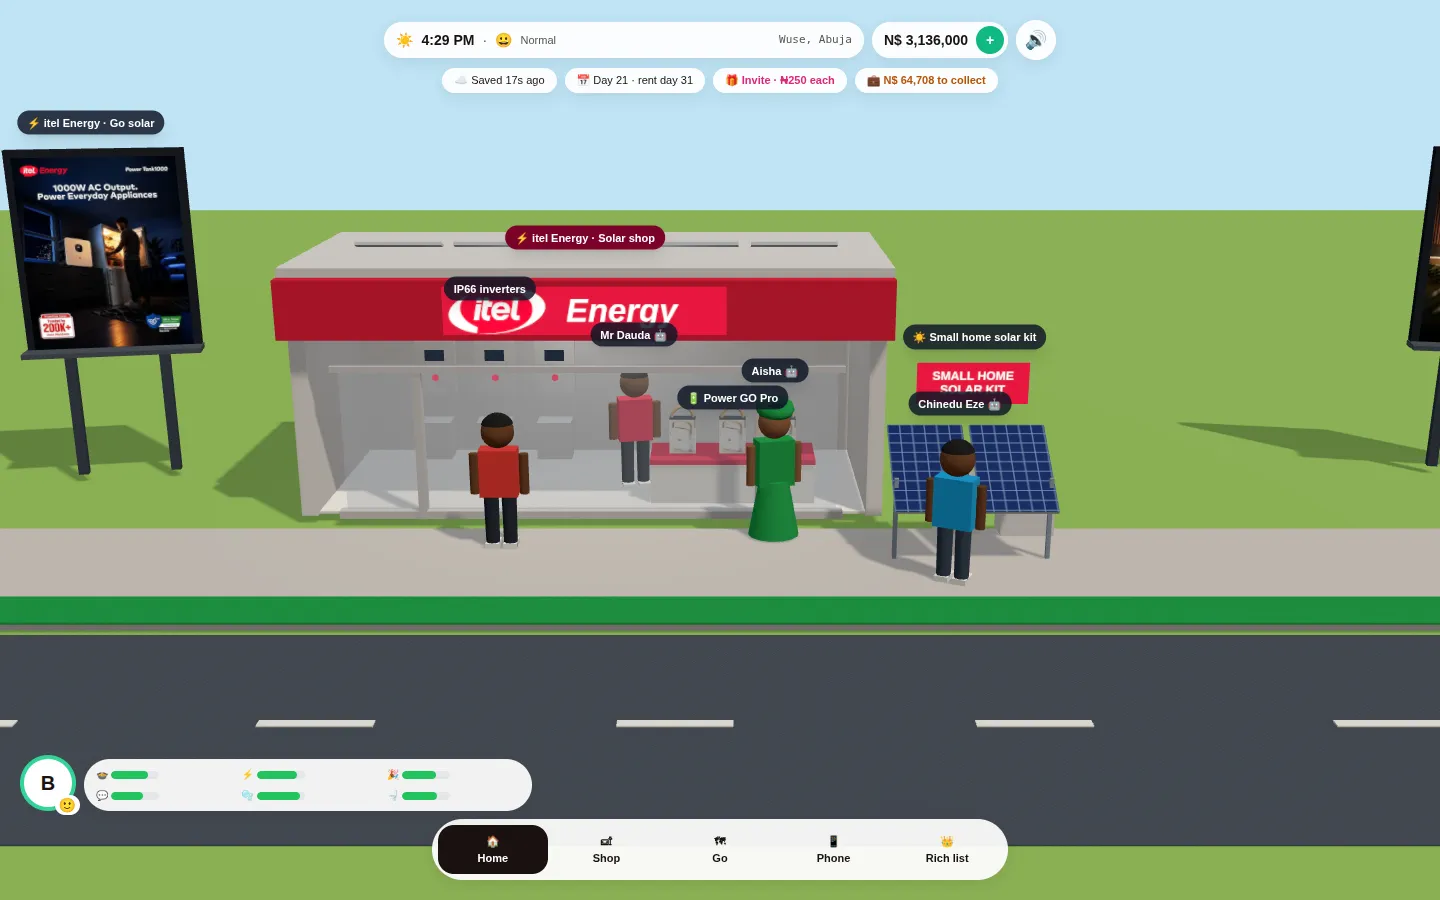
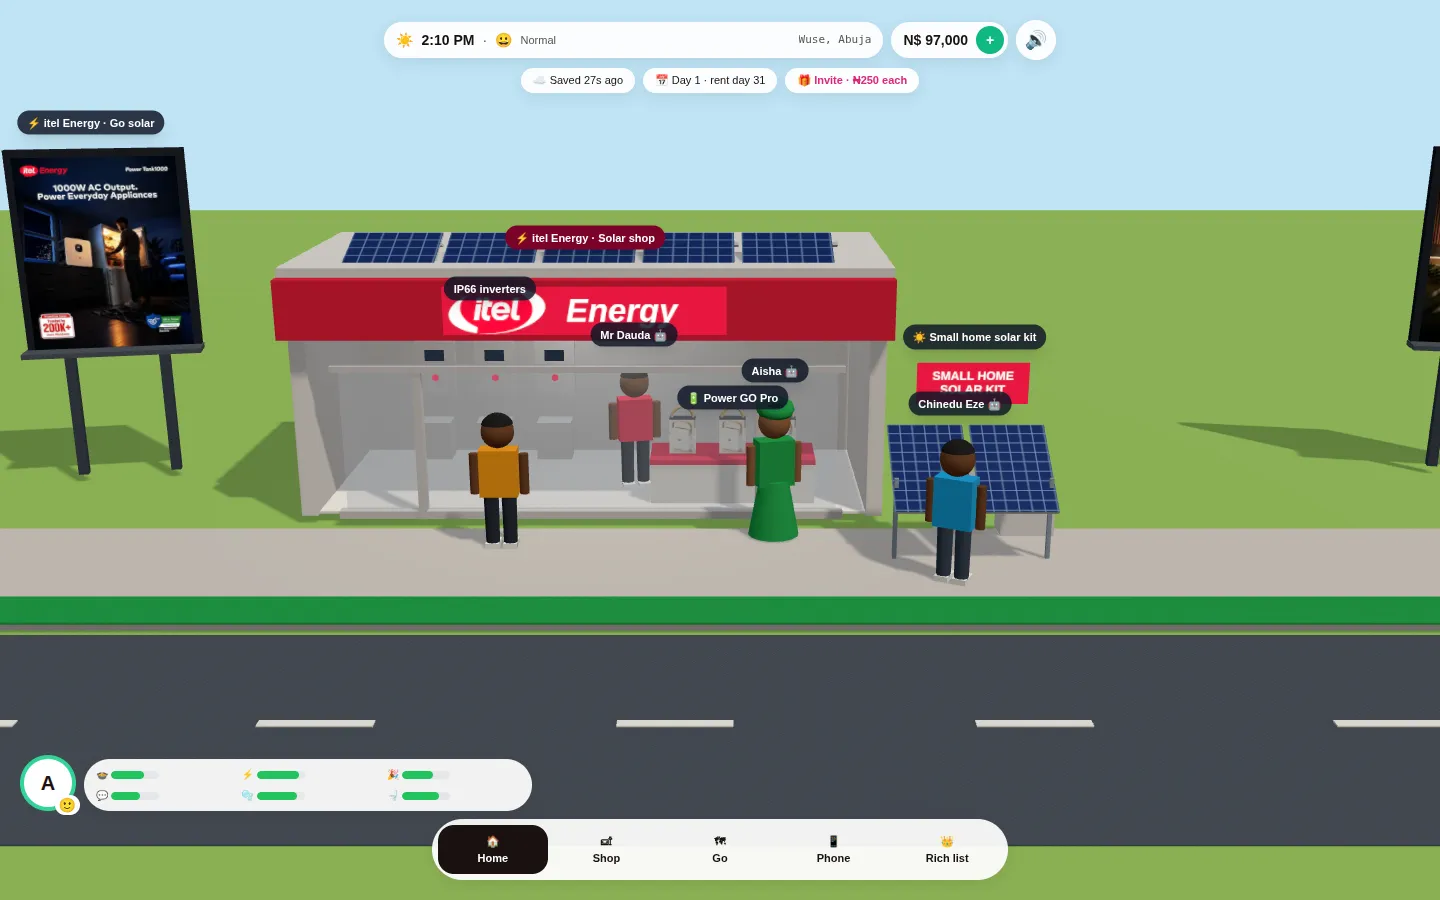
Notes Life pages: new in-game screenshots, pool and VIP cards, Candellux section (#140)
* Notes Life pages: city picker, arrival, pool and VIP cards, Candellux section, updated partner text

Claude-Session: https://claude.ai/code/session_014YUCojVUYbQrveaVgUJMCC

* Notes Life pages: new in-game screenshots (city picker, arrival, new Candellux, pool, VIP bar, solar roofs, billboards, jobs)

Claude-Session: https://claude.ai/code/session_014YUCojVUYbQrveaVgUJMCC

---------

Changed region(s): [[0.3125, 0.0, 0.6875, 0.1244], [0.2188, 0.2489, 0.5938, 0.3111], [0.3125, 0.4978, 0.375, 0.56]]

diff --git a/app/life/page.tsx b/app/life/page.tsx
@@ -15,13 +15,16 @@ const APP = "https://app.notesapp.name.ng";
 const PLAY = "https://www.notesapp.name.ng/life/play";
 // Screenshots from the game itself (public/images/life/shots/), phone size.
 const shots: { src: string; title: string; text: string }[] = [
-  { src: "/images/life/shots/welcome.webp", title: "Start in Abuja", text: "Abuja is open: a room in Wuse and N$ 100,000 to start. Lagos and Port Harcourt are coming." },
+  { src: "/images/life/shots/welcome.webp", title: "Choose your city", text: "Abuja is open, with the City Gate. Lagos (the National Theatre) and Port Harcourt (Isaac Boro Park) are coming: tap to be told first." },
+  { src: "/images/life/shots/arrive.webp", title: "Welcome to Abuja", text: "Drive in through the City Gate at night. A room in Wuse is waiting, with N$ 100,000, a bicycle and a deal phone." },
   { src: "/images/life/shots/room.webp", title: "Your room in Wuse", text: "Bed, desk, wardrobe, WC and bath. Your NotesApp photo is your portrait. Keep your six needs up, and pick how hard you want life to be." },
   { src: "/images/life/shots/nepa.webp", title: "NEPA has taken light", text: "Power cuts hit everyone at the same moment. Buy an “I Better Pass My Neighbour”, go solar with itel, or stay in the dark till light returns." },
   { src: "/images/life/shots/power.webp", title: "Power through it", text: "The Power GO keeps your lamp, fan and laptop on; the Power Tank keeps the fridge cold. When light returns, the whole street shouts “UP NEPA!”" },
   { src: "/images/life/shots/itel.webp", title: "Real brands, real products", text: "Shop at itel Energy, eat at Chef Adams, swim and meet VIPs at the Candellux Imperial. Each one links to the real thing." },
-  { src: "/images/life/shots/billboards.webp", title: "Billboards you can tap", text: "Partner adverts and the #1MillionNairaNotesAppChallenge line the roads. Tap one to open it." },
-  { src: "/images/life/shots/jobs.webp", title: "Work for real brands", text: "Take shifts at Chef Adams, itel Energy and the Candellux Imperial, with tips, sales bonuses and staff perks." },
+  { src: "/images/life/shots/pool.webp", title: "Swim at the Candellux", text: "Round the back of the hotel: the pool, with other players and residents in it. Take lessons with Coach Femi and the deep end opens after three." },
+  { src: "/images/life/shots/vip.webp", title: "Meet the VIPs", text: "The VIP bar is where the top of the Billionaires List drinks. Who's in changes every 4 game hours; say hello and chat." },
+  { src: "/images/life/shots/billboards.webp", title: "Billboards you can tap", text: "Chef Adams shawarma, pizza and Sum Ting Fresh, itel Energy and the #1MillionNairaNotesAppChallenge line the roads. Tap one to open it." },
+  { src: "/images/life/shots/jobs.webp", title: "Work for real brands", text: "Take shifts at Chef Adams, itel Energy and the Candellux Imperial: lifeguard, swimming or gym instructor, with tips, bonuses and staff perks." },
   { src: "/images/life/shots/partner.webp", title: "Own a partner outlet", text: "Earn your way to your own Chef Adams kiosk or itel store. Residents run it, your name goes on the sign, you collect the takings." },
   { src: "/images/life/shots/friends.webp", title: "Friends who play", text: "See friends who follow you back, message them on NotesApp, and meet real players at the same place. Calls are coming." },
   { src: "/images/life/shots/rich.webp", title: "The Billionaires List", text: "Climb the NotesVille Fat Wallet Index against real players and the richest residents 🤖." },
@@ -89,6 +92,23 @@ export default function LifePage() {
               <div className="mt-5 overflow-hidden rounded-2xl border border-white/20">
                 <Image src="/images/life/shots/blackout-desktop.webp" alt="Notes Life, the real game: your room in a blackout, running on the Power GO and the Power Tank" width={1440} height={900} className="h-auto w-full" />
               </div>
+            </div>
+          </div>
+        </section>
+
+        <section className="mx-auto max-w-6xl px-4 pb-16 sm:px-6" aria-labelledby="hotel">
+          <div className="grid items-center gap-8 overflow-hidden rounded-3xl bg-[#1c2030] p-6 text-white shadow-xl sm:p-10 lg:grid-cols-[1.2fr,0.8fr]">
+            <div>
+              <p className="font-mono text-[11px] uppercase tracking-widest text-[#e3b23c]">👑 Candellux Imperial · Garki</p>
+              <h2 id="hotel" className="mt-2 font-display text-4xl">Turn round. The pool is at the back.</h2>
+              <p className="mt-3 text-white/85">The hotel is built from the real Candellux: the glass and stone wings, the tower with its sign, the gate and the palms, by day and lit up at night. Spin the camera and you&apos;re at the pool: green turf, blue mosaic, the pergola, the pool bar, the VIP bar and the gym tower, with solar panels on the roofs.</p>
+              <p className="mt-3 text-white/85">A day pass is N$ 25,000. Swimming lessons (N$ 15,000) build your swimming skill, and skill 5 gets you a job as a swimming instructor.</p>
+              <div className="mt-5 overflow-hidden rounded-2xl border border-white/20">
+                <Image src="/images/life/shots/hotel-desktop.webp" alt="Notes Life, the real game: the Candellux Imperial Hotel & Suites, with its tower, gate and solar roofs" width={1440} height={900} className="h-auto w-full" />
+              </div>
+            </div>
+            <div className="relative mx-auto aspect-[390/844] w-[70%] max-w-[18rem] overflow-hidden rounded-[2rem] border-[8px] border-black">
+              <Image src="/images/life/shots/pool.webp" alt="Notes Life, the real game: swimming in the Candellux pool with other players and residents" fill sizes="18rem" className="object-cover" />
             </div>
           </div>
         </section>

diff --git a/app/life/partners/page.tsx b/app/life/partners/page.tsx
@@ -36,7 +36,7 @@ const perks: [string, string, string][] = [
 const partners: { name: string; logo: string; logoClass: string; shot: string; where: string; what: string[]; real: { href: string; label: string }[]; tone: string }[] = [
   {
     name: "Chef Adams", logo: "/images/life/partners/chef-emblem.webp", logoClass: "h-14 w-14 object-contain", shot: "/images/life/shots/chef-desktop.webp", where: "Food · Wuse, Abuja", tone: "#292929",
-    what: ["Delivery, takeaway and dine-in, with the real Chef Adams menu", "Jobs: kiosk attendant, line cook, delivery rider, outlet supervisor", "Become a Partner: a Takeaway Kiosk from N$ 2.5m or a Mini Dine-In Shop from N$ 8.0m", "Billboards on the street"],
+    what: ["Delivery, takeaway and dine-in, with the real Chef Adams menu: rice, shawarma, pizza and Sum Ting Fresh smoothies", "Jobs: kiosk attendant, line cook, delivery rider, outlet supervisor", "Become a Partner: a Takeaway Kiosk from N$ 2.5m or a Mini Dine-In Shop from N$ 8.0m", "Billboards on the street"],
     real: [{ href: "https://www.notesapp.name.ng/u/chef_adams", label: "@chef_adams on NotesApp" }, { href: REAL_PARTNER.chef_adams, label: "Own a Chef Adams franchise" }],
   },
   {
@@ -46,7 +46,7 @@ const partners: { name: string; logo: string; logoClass: string; shot: string; w
   },
   {
     name: "Candellux Imperial Hotel & Suites", logo: "/images/life/partners/candellux-logo.webp", logoClass: "h-14 w-14 rounded-full object-cover", shot: "/images/life/shots/hotel-desktop.webp", where: "Hotel · Garki, Abuja", tone: "#262b6b",
-    what: ["Suites, the 24-hour restaurant, pool, VIP bar, gym, barbing saloon and laundry", "Jobs: front desk, waiter, housekeeping, lifeguard, cook, duty manager", "Staff perks: half price at the pool, gym and VIP bar"],
+    what: ["The hotel built from the real Candellux, by day and by night, with the pool, pool bar, VIP bar and gym at the back", "Swimming with other players, and swimming lessons that open the deep end", "Suites, the 24-hour restaurant, barbing saloon and laundry", "Jobs: front desk, waiter, housekeeping, lifeguard, swimming instructor, gym instructor, cook, duty manager", "Staff perks: half price at the pool, gym, pool bar and VIP bar"],
     real: [{ href: `https://wa.me/${CANDELLUX.whatsapp}?text=${encodeURIComponent("Hello Candellux, I'd like to book a room (I found you on Notes Life).")}`, label: `Book on WhatsApp · ${CANDELLUX.whatsappLabel}` }],
   },
 ];
